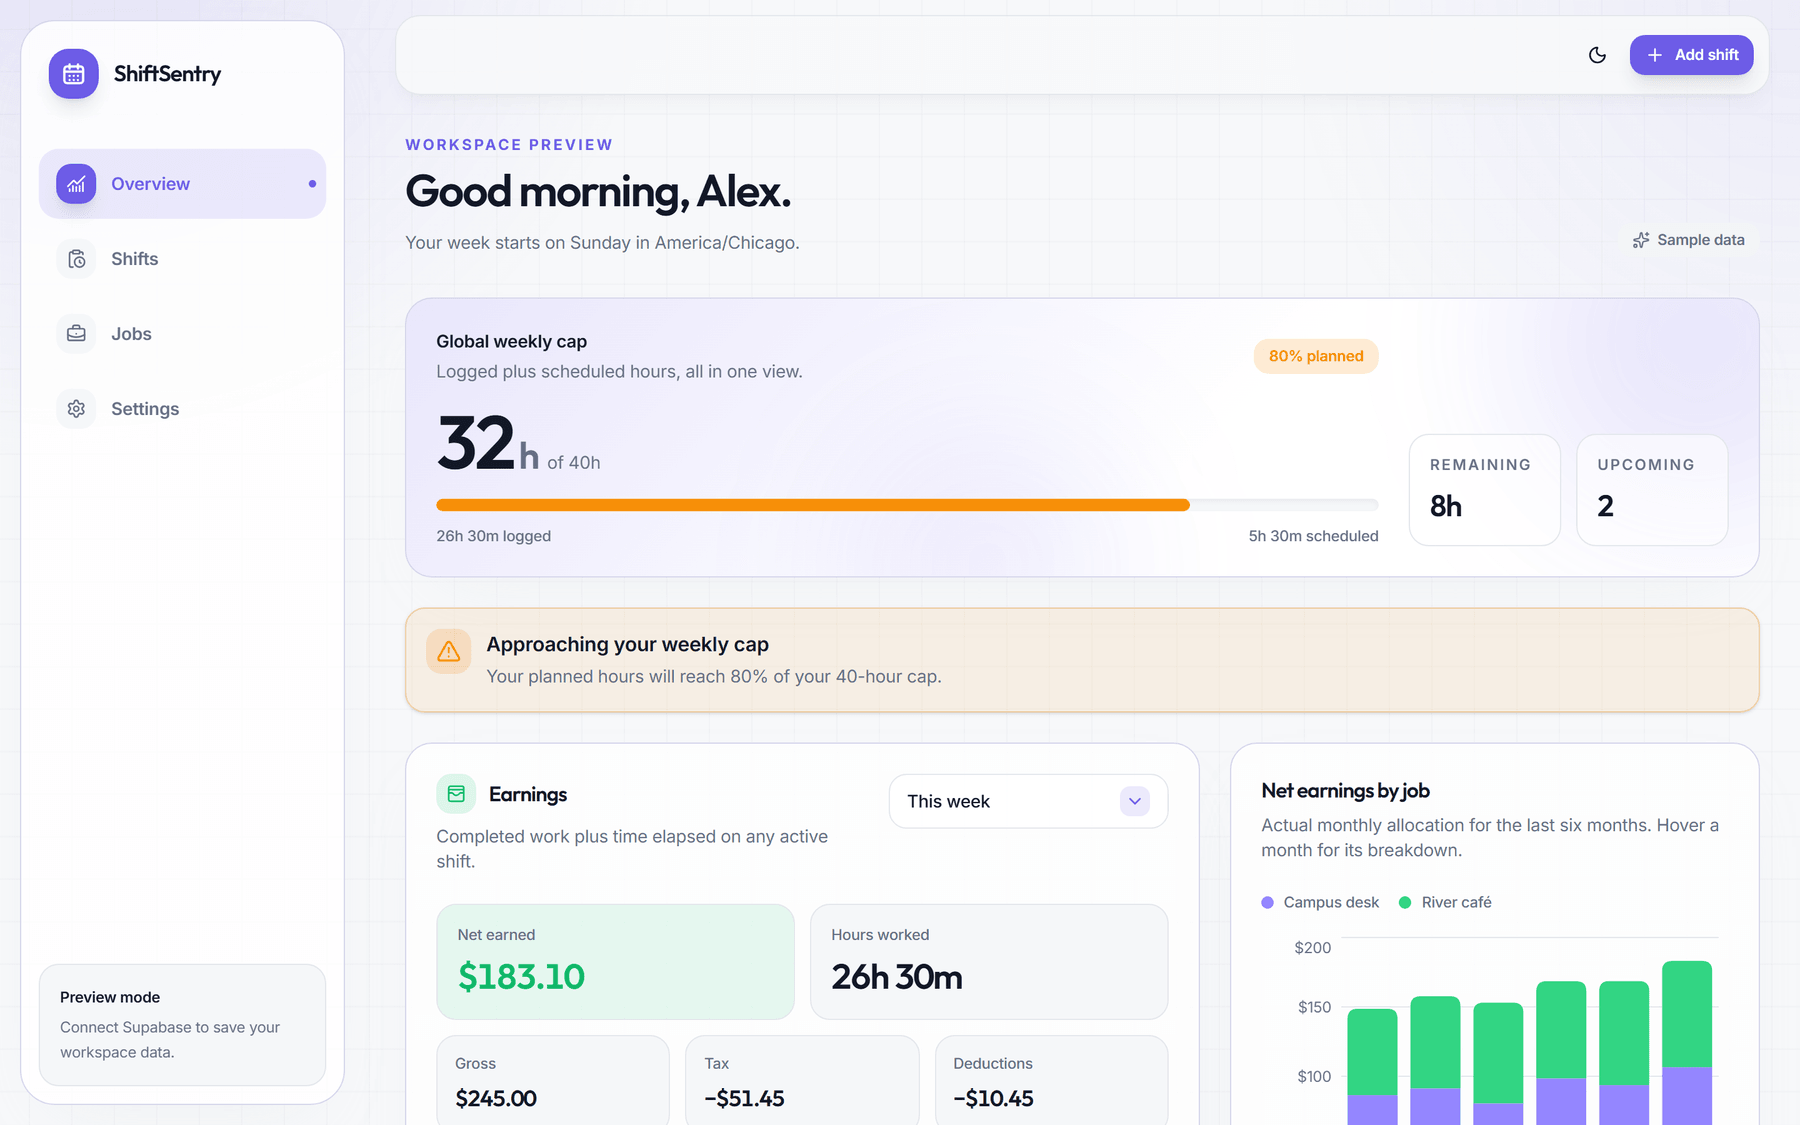
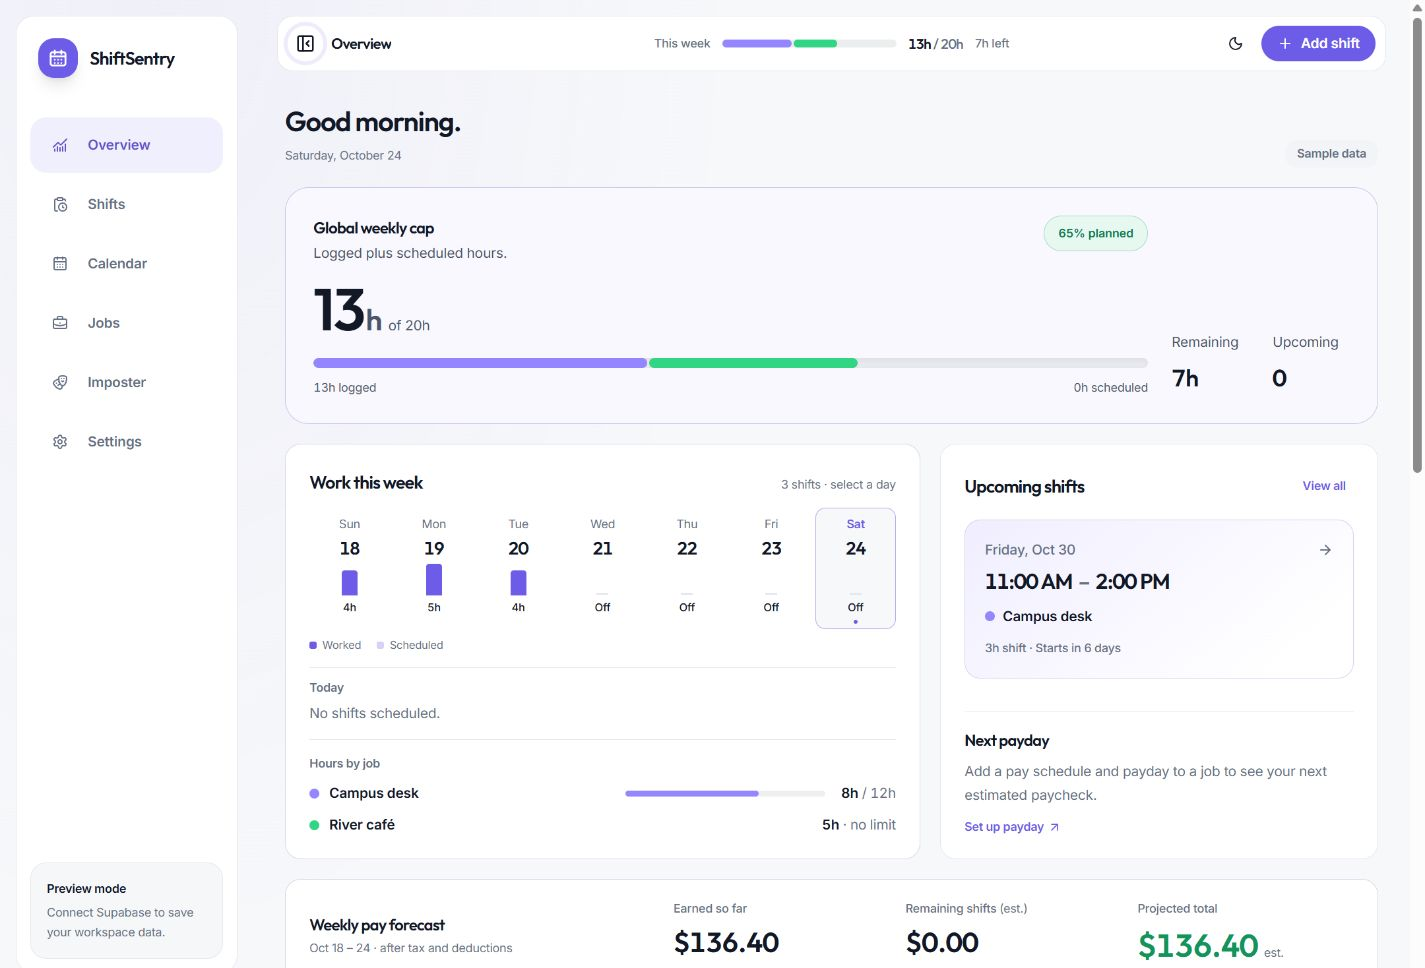
feat: refine dashboard and sidebar styling
Give the overview quieter surfaces and prioritize upcoming shifts on narrow screens while preserving Inter and Outfit typography. Keep desktop navigation full height with grouped links, accessible collapsed labels, and scrolling without a visible scrollbar. No database, authentication, or dependency changes.

diff --git a/src/components/app-shell.tsx b/src/components/app-shell.tsx
@@ -12,6 +12,7 @@ import { limitPosition, type WeekMeter } from "@/lib/week-meter";
 import { Button, buttonVariants } from "@/components/ui/button";
 import { AccountMenu } from "@/components/account-menu";
 import { Brand } from "@/components/brand";
+import dashboardShell from "./quiet-dashboard-shell.module.css";
 
 /**
  * The work the app is for. These five are the bottom tab bar on a phone, where
@@ -38,6 +39,12 @@ const navigation = [
 const menuNavigation = [
   ...navigation,
   { href: "/game", label: "Imposter", icon: Drama },
+];
+
+const desktopMainNavigation = navigation.filter((item) => item.href !== "/settings");
+const desktopUtilityNavigation = [
+  ...menuNavigation.filter((item) => item.href === "/game"),
+  ...navigation.filter((item) => item.href === "/settings"),
 ];
 
 type NavigationItem = typeof navigation[number];
@@ -75,7 +82,7 @@ function navDirection(items: NavigationItem[], pathname: string, index: number) 
  * name at once abort the whole transition.
  */
 function NavPill({ name, className }: { name?: string; className: string }) {
-  const pill = <span aria-hidden="true" className={cn("absolute inset-0 -z-10", className)} />;
+  const pill = <span aria-hidden="true" className={cn("app-nav-highlight absolute inset-0 -z-10", className)} />;
   return name ? <ViewTransition name={name} share="nav-pill" default="none">{pill}</ViewTransition> : pill;
 }
 
@@ -123,18 +130,38 @@ function SidebarToggle() {
 
 function NavigationLink({ item, active, transitionTypes, pillName, onNavigate }: { item: NavigationItem; active: boolean; transitionTypes?: string[]; pillName?: string; onNavigate?: () => void }) {
   const Icon = item.icon;
+  const linkRef = useRef<HTMLAnchorElement>(null);
+  // Portal the collapsed label so short-window navigation scrolling cannot clip it.
+  const [tooltip, setTooltip] = useState<{ left: number; top: number } | null>(null);
 
-  return <Link href={item.href} transitionTypes={transitionTypes} onClick={onNavigate} className={cn(
+  function showTooltip() {
+    if (!pillName || document.documentElement.dataset.sidebar !== "collapsed" || !window.matchMedia("(min-width: 64rem)").matches) return;
+    const bounds = linkRef.current?.getBoundingClientRect();
+    if (bounds) setTooltip({ left: bounds.right + 16, top: bounds.top + bounds.height / 2 });
+  }
+
+  useEffect(() => {
+    if (!tooltip) return;
+    const hide = () => setTooltip(null);
+    window.addEventListener("scroll", hide, true);
+    window.addEventListener("resize", hide);
+    return () => {
+      window.removeEventListener("scroll", hide, true);
+      window.removeEventListener("resize", hide);
+    };
+  }, [tooltip]);
+
+  return <><Link ref={linkRef} href={item.href} transitionTypes={transitionTypes} onClick={() => { setTooltip(null); onNavigate?.(); }} onMouseEnter={showTooltip} onMouseLeave={() => setTooltip(null)} onFocus={showTooltip} onBlur={() => setTooltip(null)} aria-label={item.label} aria-current={active ? "page" : undefined} className={cn(
     "press app-nav-link group relative isolate flex items-center gap-3 rounded-2xl px-3.5 py-3 text-sm font-semibold hover:translate-x-0.5",
     active ? "text-[var(--primary)]" : "text-[var(--muted-foreground)] hover:bg-[var(--surface-subtle)] hover:text-[var(--foreground)]",
   )}>
     {active && <NavPill name={pillName} className="rounded-2xl bg-[var(--primary-soft)]" />}
-    <span className={cn("grid size-8 place-items-center rounded-xl transition-colors", active ? "bg-[var(--primary)] text-[var(--primary-foreground)] shadow-lg shadow-[var(--primary-glow)]" : "bg-[var(--surface-subtle)] text-[var(--muted-foreground)] group-hover:bg-[var(--primary-soft)] group-hover:text-[var(--primary)]")}>
+    <span className={cn("app-nav-icon grid size-8 place-items-center rounded-xl transition-colors", active ? "bg-[var(--primary)] text-[var(--primary-foreground)] shadow-lg shadow-[var(--primary-glow)]" : "bg-[var(--surface-subtle)] text-[var(--muted-foreground)] group-hover:bg-[var(--primary-soft)] group-hover:text-[var(--primary)]")}>
       <Icon className="size-4" />
     </span>
     <span className="app-nav-label">{item.label}</span>
     {active && <span className="app-nav-dot absolute right-2 size-1.5 rounded-full bg-[var(--primary)]" />}
-  </Link>;
+  </Link>{tooltip && createPortal(<span aria-hidden="true" className="pointer-events-none fixed z-50 -translate-y-1/2 whitespace-nowrap rounded-lg bg-[var(--foreground)] px-3 py-2 text-xs font-medium text-[var(--background)] shadow-lg" style={tooltip}>{item.label}</span>, document.body)}</>;
 }
 
 function BottomNavigationLink({ item, active, transitionTypes }: { item: NavigationItem; active: boolean; transitionTypes?: string[] }) {
@@ -291,10 +318,11 @@ function WeekMeterPlaceholder() {
 
 export function AppShell({ children, isAdmin = false, isDemo = false, userEmail, userName, weekMeter }: { children: React.ReactNode; isAdmin?: boolean; isDemo?: boolean; userEmail?: string; userName?: string | null; weekMeter?: Promise<WeekMeter | null> }) {
   const pathname = usePathname();
-  const desktopItems = isAdmin ? [...menuNavigation, { href: "/admin", label: "Admin", icon: ShieldCheck }] : menuNavigation;
+  const desktopUtilityItems = isAdmin ? [...desktopUtilityNavigation, { href: "/admin", label: "Admin", icon: ShieldCheck }] : desktopUtilityNavigation;
+  const desktopItems = [...desktopMainNavigation, ...desktopUtilityItems];
   const section = desktopItems.find((item) => isNavigationActive(pathname, item.href));
 
-  return <div className="app-canvas app-frame min-h-screen lg:grid lg:grid-cols-[292px_minmax(0,1fr)]">
+  return <div className={cn("app-canvas app-frame min-h-screen lg:grid lg:grid-cols-[292px_minmax(0,1fr)]", pathname === "/" && dashboardShell.quiet)}>
     <a href="#main-content" className="sr-only focus:not-sr-only focus:fixed focus:left-4 focus:top-4 focus:z-[70] focus:rounded-xl focus:bg-[var(--primary)] focus:px-4 focus:py-2.5 focus:text-sm focus:font-semibold focus:text-[var(--primary-foreground)] focus:shadow-2xl focus:shadow-[var(--primary-glow)]">Skip to content</a>
     {/* No `backdrop-blur` on the sidebar or the header bar.
         Both used to carry one on the theory that they overlay scrolling
@@ -307,11 +335,14 @@ export function AppShell({ children, isAdmin = false, isDemo = false, userEmail,
         filter is re-evaluated as it moves, on every scroll frame, on every
         page. The bottom bar keeps its blur, being the one layer here that
         genuinely does overlay scrolling content. */}
-    <aside id="desktop-sidebar" className="app-sidebar hidden p-4 lg:flex">
-      <div className="premium-card sticky top-4 flex h-[calc(100vh-2rem)] w-full flex-col rounded-[1.75rem] border bg-[var(--card)]/82 p-3.5">
+    <aside id="desktop-sidebar" className={cn("app-sidebar hidden p-4 lg:flex", dashboardShell.sidebar)}>
+      <div className={cn("premium-card sticky top-4 flex w-full flex-col border bg-[var(--card)]/82 p-3.5", dashboardShell.sidebarCard)}>
         <Link href="/" aria-label="Go to ShiftSentry overview" className="app-sidebar-brand mb-8 rounded-2xl px-2 py-2"><Brand /></Link>
-        <nav className="space-y-1" aria-label="Main navigation">{desktopItems.map((item, index) => <NavigationLink key={item.href} item={item} active={isNavigationActive(pathname, item.href)} transitionTypes={navDirection(desktopItems, pathname, index)} pillName="nav-pill-side" />)}</nav>
-        <div className="app-sidebar-note mt-auto rounded-2xl border border-[var(--border)] bg-[var(--surface-subtle)] p-4 text-xs leading-5 text-[var(--muted-foreground)]"><span className="mb-1 block font-semibold text-[var(--foreground)]">{isDemo ? "Preview mode" : "Private workspace"}</span>{isDemo ? "Connect Supabase to save your workspace data." : "Your work schedule stays private to your account."}</div>
+        <nav className={dashboardShell.sidebarNavigation} aria-label="Main navigation">
+          <div className="space-y-1">{desktopMainNavigation.map((item) => <NavigationLink key={item.href} item={item} active={isNavigationActive(pathname, item.href)} transitionTypes={navDirection(desktopItems, pathname, desktopItems.indexOf(item))} pillName="nav-pill-side" />)}</div>
+          <div className={cn("space-y-1", dashboardShell.sidebarUtilities)}>{desktopUtilityItems.map((item) => <NavigationLink key={item.href} item={item} active={isNavigationActive(pathname, item.href)} transitionTypes={navDirection(desktopItems, pathname, desktopItems.indexOf(item))} pillName="nav-pill-side" />)}</div>
+        </nav>
+        <div className="app-sidebar-note mt-4 rounded-2xl border border-[var(--border)] bg-[var(--surface-subtle)] p-4 text-xs leading-5 text-[var(--muted-foreground)]"><span className="mb-1 block font-semibold text-[var(--foreground)]">{isDemo ? "Preview mode" : "Private workspace"}</span>{isDemo ? "Connect Supabase to save your workspace data." : "Your work schedule stays private to your account."}</div>
       </div>
     </aside>
     <div className="min-w-0">

diff --git a/src/components/dashboard/dashboard.module.css b/src/components/dashboard/dashboard.module.css
@@ -4,11 +4,19 @@
   background: var(--card);
   box-shadow: none;
 }
-.root :global([aria-labelledby="week-card-title"]) {
+.root .cap {
+  --muted-foreground: var(--muted-strong);
+  border: 1px solid color-mix(in srgb, var(--primary) 25%, var(--border));
   border-radius: 24px;
-  background: linear-gradient(110deg, color-mix(in srgb, var(--primary) 10%, var(--card)), var(--card) 75%);
+  background: color-mix(in srgb, var(--primary) 4%, var(--card));
+  box-shadow: none;
 }
-.cap { display: grid; grid-template-columns: minmax(0, 1fr); gap: 16px; margin-bottom: 20px; padding: 20px; }
+:global(.dark) .root .cap {
+  border: 0;
+  background: linear-gradient(120deg, color-mix(in srgb, var(--primary) 12%, var(--card)), var(--card) 78%);
+  box-shadow: 0 12px 30px -18px rgb(0 0 0 / 0.4);
+}
+.cap { display: grid; grid-template-columns: minmax(0, 1fr); gap: 20px; margin-bottom: 20px; padding: 24px 20px; }
 .capHeader { display: grid; grid-template-columns: minmax(0, 1fr) auto; align-items: center; gap: 4px 12px; }
 .capHeader > :nth-child(2) { grid-column: 2; grid-row: 1; }
 .capDescription { grid-column: 1 / -1; }
@@ -21,6 +29,7 @@
   align-items: stretch;
   gap: 20px;
 }
+.workPanel { min-width: 0; }
 .rail { display: flex; min-width: 0; flex-direction: column; border: 1px solid var(--border); }
 .rail :global([aria-labelledby="next-shift-title"]) {
   padding: 20px;
@@ -46,7 +55,7 @@
   transition: background 160ms, border-color 160ms;
 }
 .day:hover { background: color-mix(in srgb, var(--primary) 6%, transparent); }
-.selectedDay { background: var(--card); border-color: color-mix(in srgb, var(--primary) 40%, var(--border)); }
+.selectedDay { background: var(--background); border-color: color-mix(in srgb, var(--primary) 45%, var(--border)); }
 .day:focus-visible, .dayShift:focus-visible { outline: 2px solid var(--primary); outline-offset: 2px; }
 .dayChart { display: flex; width: 100%; height: 24px; align-items: end; justify-content: center; padding-bottom: 2px; }
 .dayBar { display: flex; width: 16px; flex-direction: column; overflow: hidden; border-radius: 3px 3px 0 0; }
@@ -91,12 +100,14 @@
 }
 @media (min-width: 64rem) {
   .cap { grid-template-columns: minmax(0, 1fr) auto; gap: 24px; padding: 28px; }
-  .capFacts { align-self: end; min-width: 220px; border-top: 0; border-left: 1px solid var(--border); padding: 0 0 0 28px; }
+  .capFacts { align-self: end; min-width: 180px; gap: 24px; border-top: 0; padding: 0; }
   .root .forecast { display: grid; grid-template-columns: minmax(0, 1fr) minmax(0, 2fr); align-items: center; gap: 0 24px; }
   .forecastFigures { margin-top: 0; }
   .forecastFootnote { grid-column: 1 / -1; }
 }
 @media (min-width: 80rem) {
   .topGrid { grid-template-columns: minmax(0, 1.45fr) minmax(0, 1fr); }
+  .workPanel { grid-column: 1; grid-row: 1; }
+  .rail { grid-column: 2; grid-row: 1; }
   .days { grid-template-columns: repeat(7, minmax(0, 1fr)); }
 }

diff --git a/src/components/dashboard/dashboard-view.tsx b/src/components/dashboard/dashboard-view.tsx
@@ -11,6 +11,7 @@ import { Card, CardContent, CardDescription, CardHeader, CardTitle } from "@/com
 import { NextShiftCard } from "@/components/dashboard/next-shift-card";
 import { WeekCard, WeekJobLimits } from "@/components/dashboard/week-card";
 import { WorkWeek } from "@/components/dashboard/work-week";
+import { WorkGrid } from "@/components/dashboard/work-grid";
 import { PaydaySummary } from "@/components/dashboard/payday-summary";
 import { WeeklyPayForecast } from "@/components/dashboard/weekly-pay-forecast";
 import { RecentShifts } from "@/components/dashboard/recent-shifts";
@@ -93,18 +94,19 @@ export function DashboardView({ data }: { data: DashboardData }) {
     <DashboardHeading data={data} />
     <WeekCard jobs={data.jobs} workedMinutes={data.totals.week.minutes} limitMinutes={data.globalLimitMinutes} rangeLabel={weekRangeLabel(data.viewer, data.snapshotAt)} upcomingCount={new Set(data.weekDays.flatMap((day) => day.shifts).filter((shift) => Date.parse(shift.startsAt) > Date.parse(data.snapshotAt)).map((shift) => shift.id)).size} />
 
-    {/* Daily work stays with weekly capacity; upcoming work and pay share
-        a compact rail without stretching either surface. */}
-    <section className={styles.topGrid}>
-      <Reveal className="min-w-0" delay={0.05}><Card className="flex h-full min-w-0 flex-col p-5 sm:p-6">
+    {/* The next shift leads the stacked view; days and job limits stay beside
+        it on wide screens, with keyboard order following the visible panels. */}
+    <WorkGrid work={
+      <Reveal className={styles.workPanel} delay={0.05}><Card className="flex h-full min-w-0 flex-col p-5 sm:p-6">
         <WorkWeek days={data.weekDays} timeZone={data.viewer.timeZone} />
         <WeekJobLimits jobs={data.jobs} />
       </Card></Reveal>
+    } upcoming={
       <aside className={cn("premium-card", styles.rail)} aria-label="Upcoming work and pay">
         <NextShiftCard current={data.currentShift} upcoming={data.upcomingShifts} timeZone={data.viewer.timeZone} snapshotAt={data.snapshotAt} />
         <PaydaySummary periods={data.payPeriods} snapshotAt={data.snapshotAt} timeZone={data.viewer.timeZone} onShowDetails={() => payPeriodsPreference.write("open")} />
       </aside>
-    </section>
+    } />
     <WeeklyPayForecast earnedNetCents={data.totals.week.earnings.netCents} forecast={data.weekForecast} rangeLabel={weekRangeLabel(data.viewer, data.snapshotAt)} />
 
     {/* Then money: what this period came to, beside how it compares with the

diff --git a/src/components/quiet-dashboard-shell.module.css b/src/components/quiet-dashboard-shell.module.css
@@ -1,0 +1,72 @@
+.quiet {
+  background:
+    radial-gradient(ellipse at 12% 0%, color-mix(in srgb, var(--primary) 5%, transparent), transparent 36rem),
+    var(--background);
+}
+
+.quiet :global(.app-sidebar > .premium-card),
+.quiet :global(header > .premium-card) {
+  border-color: var(--border);
+  background: var(--card);
+  box-shadow: none;
+}
+
+.quiet :global(.app-sidebar .app-nav-icon) {
+  color: inherit;
+  background: transparent;
+  box-shadow: none;
+}
+
+.quiet :global(.app-sidebar .app-nav-link[aria-current="page"]) {
+  color: color-mix(in srgb, var(--primary) 85%, var(--foreground));
+}
+
+.quiet :global(.app-sidebar .app-nav-highlight) {
+  background: color-mix(in srgb, var(--primary) 10%, var(--card));
+}
+
+.quiet :global(.app-sidebar .app-nav-dot) {
+  display: none;
+}
+
+.sidebarCard {
+  height: calc(100dvh - 2rem);
+  border-radius: 18px;
+}
+
+.sidebar :global(.app-sidebar-brand),
+.sidebar :global(.app-sidebar-note) {
+  flex-shrink: 0;
+}
+
+.sidebarNavigation {
+  display: flex;
+  min-height: 0;
+  flex: 1;
+  flex-direction: column;
+  overflow-y: auto;
+  scrollbar-width: none;
+}
+
+.sidebarNavigation::-webkit-scrollbar {
+  display: none;
+}
+
+.sidebarUtilities {
+  margin-top: 4px;
+}
+
+@media (min-width: 64rem) {
+  .quiet:global(.app-frame) {
+    grid-template-columns: 256px minmax(0, 1fr);
+  }
+
+  :global(:root[data-sidebar="collapsed"]) .sidebar :global(.app-nav-label) {
+    display: none;
+  }
+}
+
+@media (max-height: 42rem) {
+  .sidebar :global(.app-sidebar-brand) { margin-bottom: 16px; }
+  .sidebar :global(.app-sidebar-note) { display: none; }
+}

diff --git a/src/components/dashboard/work-grid.tsx b/src/components/dashboard/work-grid.tsx
@@ -1,0 +1,33 @@
+"use client";
+
+import { Fragment, useSyncExternalStore, type ReactNode } from "react";
+import styles from "./dashboard.module.css";
+
+const WIDE_GRID_QUERY = "(min-width: 80rem)";
+
+function subscribeToGrid(listener: () => void) {
+  const query = window.matchMedia(WIDE_GRID_QUERY);
+  query.addEventListener("change", listener);
+  return () => query.removeEventListener("change", listener);
+}
+
+function readWideGrid() {
+  return window.matchMedia(WIDE_GRID_QUERY).matches;
+}
+
+function serverGrid() {
+  return false;
+}
+
+/** Keep keyboard and reading order aligned with the stacked mobile layout.
+ * Keyed fragments retain each panel's state when the breakpoint changes;
+ * desktop grid positions also hold the correct layout before hydration. */
+export function WorkGrid({ work, upcoming }: { work: ReactNode; upcoming: ReactNode }) {
+  const wide = useSyncExternalStore(subscribeToGrid, readWideGrid, serverGrid);
+  const panels = [{ key: "work", content: work }, { key: "upcoming", content: upcoming }];
+  if (!wide) panels.reverse();
+
+  return <section className={styles.topGrid}>
+    {panels.map((panel) => <Fragment key={panel.key}>{panel.content}</Fragment>)}
+  </section>;
+}

diff --git a/src/components/dashboard/week-card.tsx b/src/components/dashboard/week-card.tsx
@@ -75,7 +75,7 @@ export function WeekCard({ jobs, workedMinutes, limitMinutes, rangeLabel, upcomi
   const tick = limitPosition(meter);
   const width = limitMinutes === null ? (meter.plannedMinutes > 0 ? 100 : 0) : Math.min(100, meter.percent);
 
-  return <section aria-labelledby="week-card-title" className={cn("premium-card min-w-0 border !border-[color-mix(in_srgb,var(--primary)_23%,var(--border))]", styles.cap)}>
+  return <section aria-labelledby="week-card-title" className={cn("premium-card min-w-0", styles.cap)}>
     <div className="min-w-0">
       <div className={styles.capHeader}>
         <h2 id="week-card-title" className="font-display text-base font-semibold">Global weekly cap</h2>
